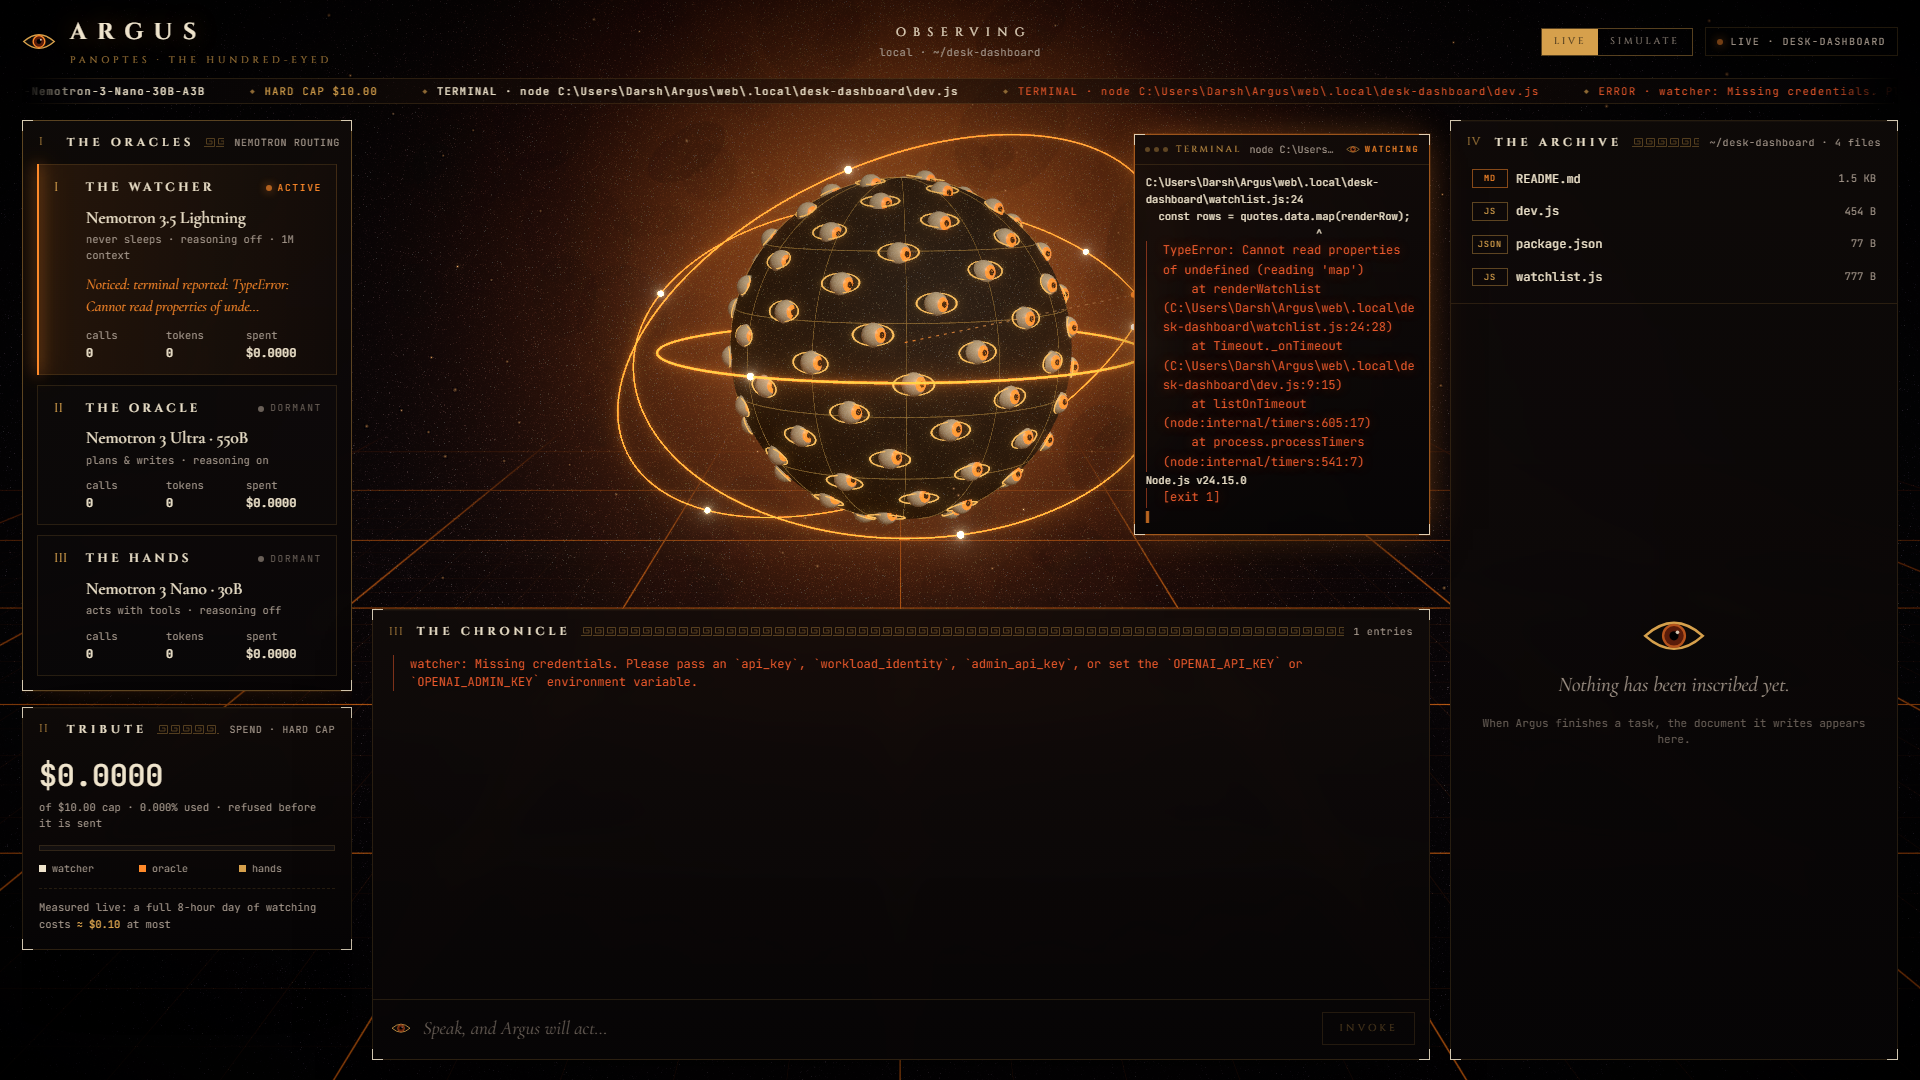
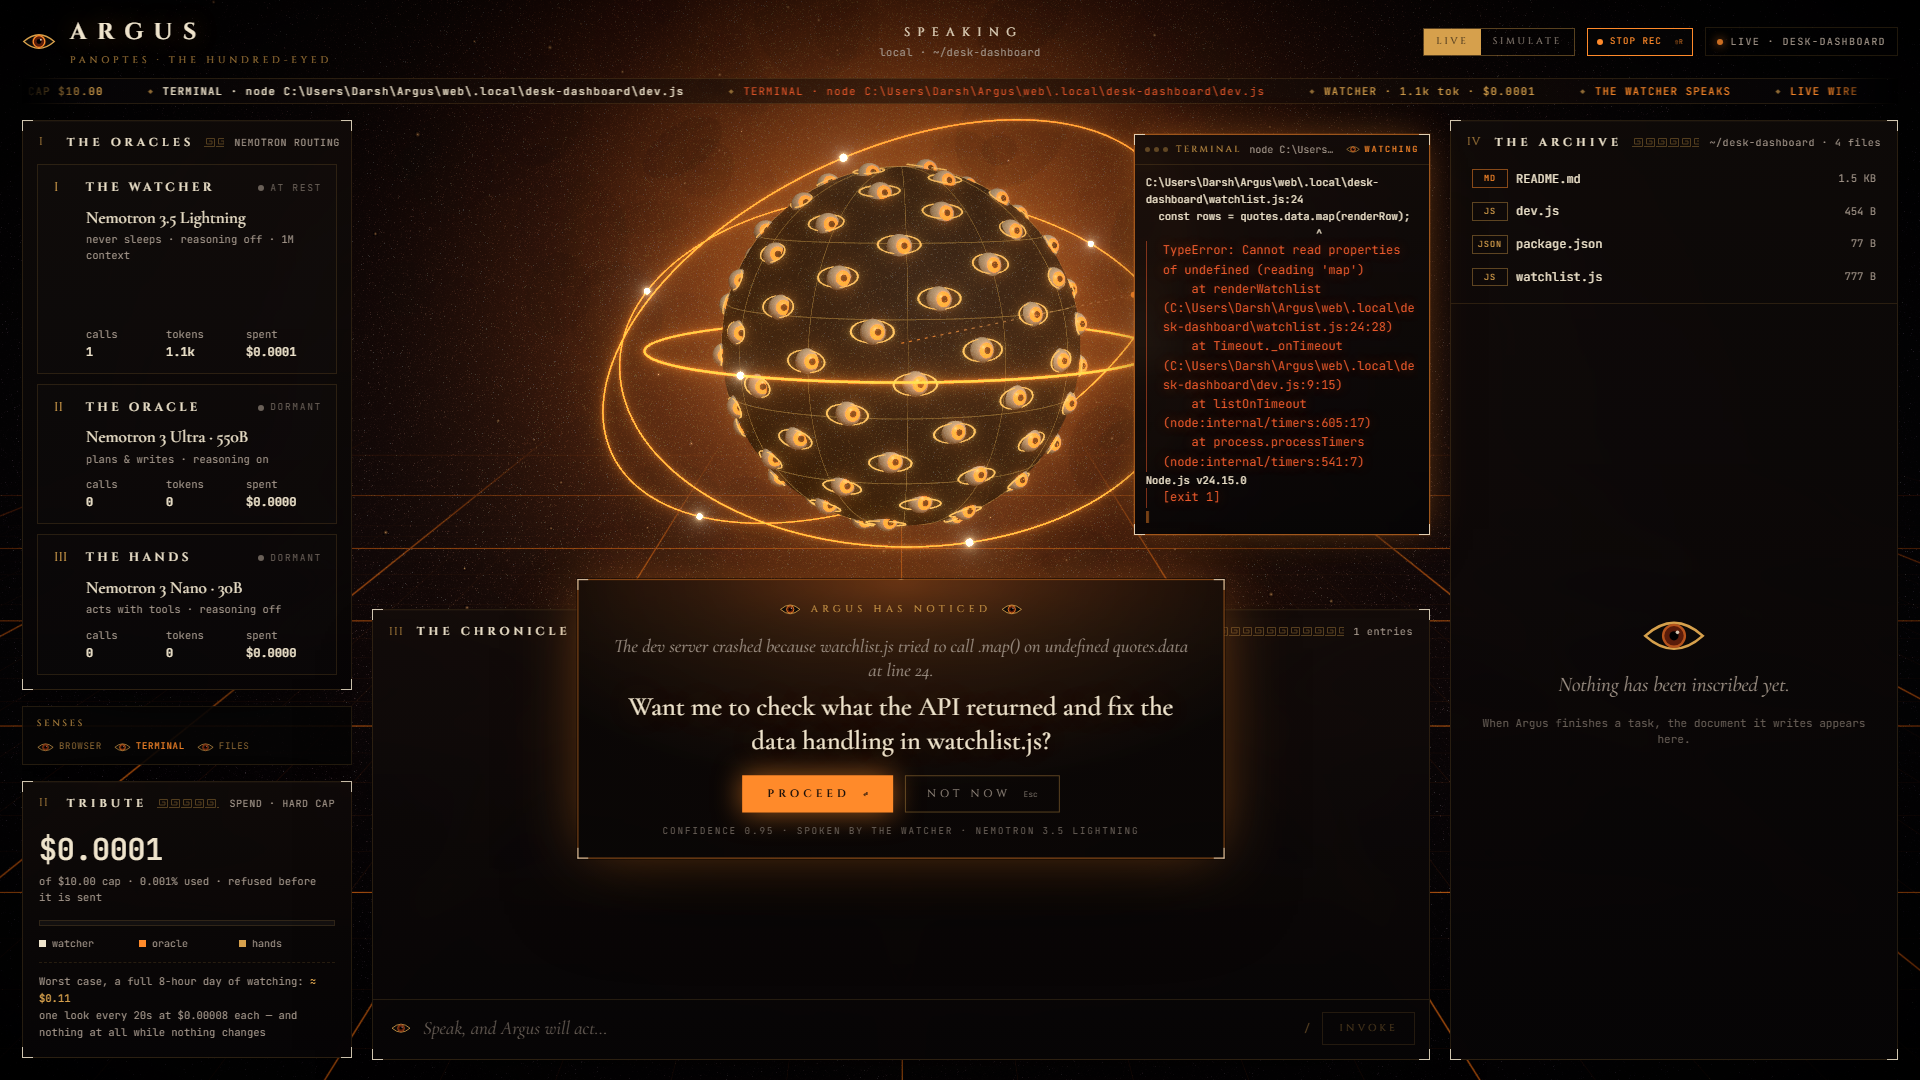
Verify real-model terminal repair and capture acceptance evidence

diff --git a/core/sensors/tests/accept_terminal.py b/core/sensors/tests/accept_terminal.py
@@ -48,6 +48,9 @@ async def main(args):
         await page.goto('http://127.0.0.1:5173/')
         await page.get_by_role('button', name='LIVE', exact=True).wait_for()
         await asyncio.sleep(1)
+        recorder = page.locator('.record-toggle')
+        if await recorder.count():
+            await page.keyboard.press('Shift+R')
 
         async def run_fixture():
             return await asyncio.create_subprocess_exec(sys.executable, '-m', 'core.sensors.terminal_log',
@@ -65,7 +68,7 @@ async def main(args):
         await page.screenshot(path=str(out / 'terminal-crash-1920.png'))
         print(f'PASS: real crash displayed, approximately {latency:.3f}s from crash to websocket', flush=True)
         if args.proceed:
-            button = page.get_by_role('button', name='PROCEED', exact=True)
+            button = page.locator('.btn-accept')
             await button.wait_for(timeout=60_000)
             await page.screenshot(path=str(out / 'terminal-prophecy-1920.png'))
             await button.click()
@@ -77,6 +80,10 @@ async def main(args):
             await page.locator('.term .ok').filter(has_text='[exit 0]').wait_for()
             await page.screenshot(path=str(out / 'terminal-fixed-1920.png'))
             print('PASS: Proceed wrote code and the real app now exits 0', flush=True)
+        if await recorder.count():
+            async with page.expect_download() as download_info:
+                await page.keyboard.press('Shift+R')
+            await (await download_info.value).save_as(out / 'ui-recording.jsonl')
         assert not errors, errors
         (out / 'acceptance.json').write_text(json.dumps({'sensors': health['sensors'],
             'latency_seconds_approx': round(latency, 3), 'proceed_verified': args.proceed,

diff --git a/docs/worklog/WEB.md b/docs/worklog/WEB.md
@@ -2,6 +2,12 @@
 <!-- Written ONLY by the web lane (frontend, tools layer, sandbox runtime). -->
 <!-- Newest entry at top. Append only. -->
 
+### 2026-10-16 23:16 — web · terminal acceptance
+**Did:** Real Nemotron crash → prophecy → Proceed → read/write → INSCRIBED → clean rerun passed; watcher named `watchlist.js:24`, detection ~1.15s, no browser errors; screenshots in `web/evidence/terminal/`.
+**Affects core:** Updated local Token Factory credentials authenticate with the existing configuration; no routing, watcher, agent or prompt changes were needed.
+**Needs from core:** None for Job 1. The separately integrated browser job still needs the frozen six-tool assertion updated by core before its PR.
+**Watch out:** Shift+R captured the successful session in ignored `web/.local/terminal-success/ui-recording.jsonl`; only sanitized replay and screenshots are publishable. This supersedes the earlier credential blocker.
+
 ### 2026-10-16 18:30 — web · browser
 **Did:** Added opt-in MV3 browser sense, push sensor, lazy Playwright browse tool, pinned public-IP egress proxy, documentation and tests; extension-to-core latency 3.17s, real JS page and example.com reads pass.
 **Affects core:** Registry adds `browser_tab` and `browse`; append-only dependency `playwright>=1.48` requires `python -m playwright install chromium`; existing meta.activity forwards browser results.
